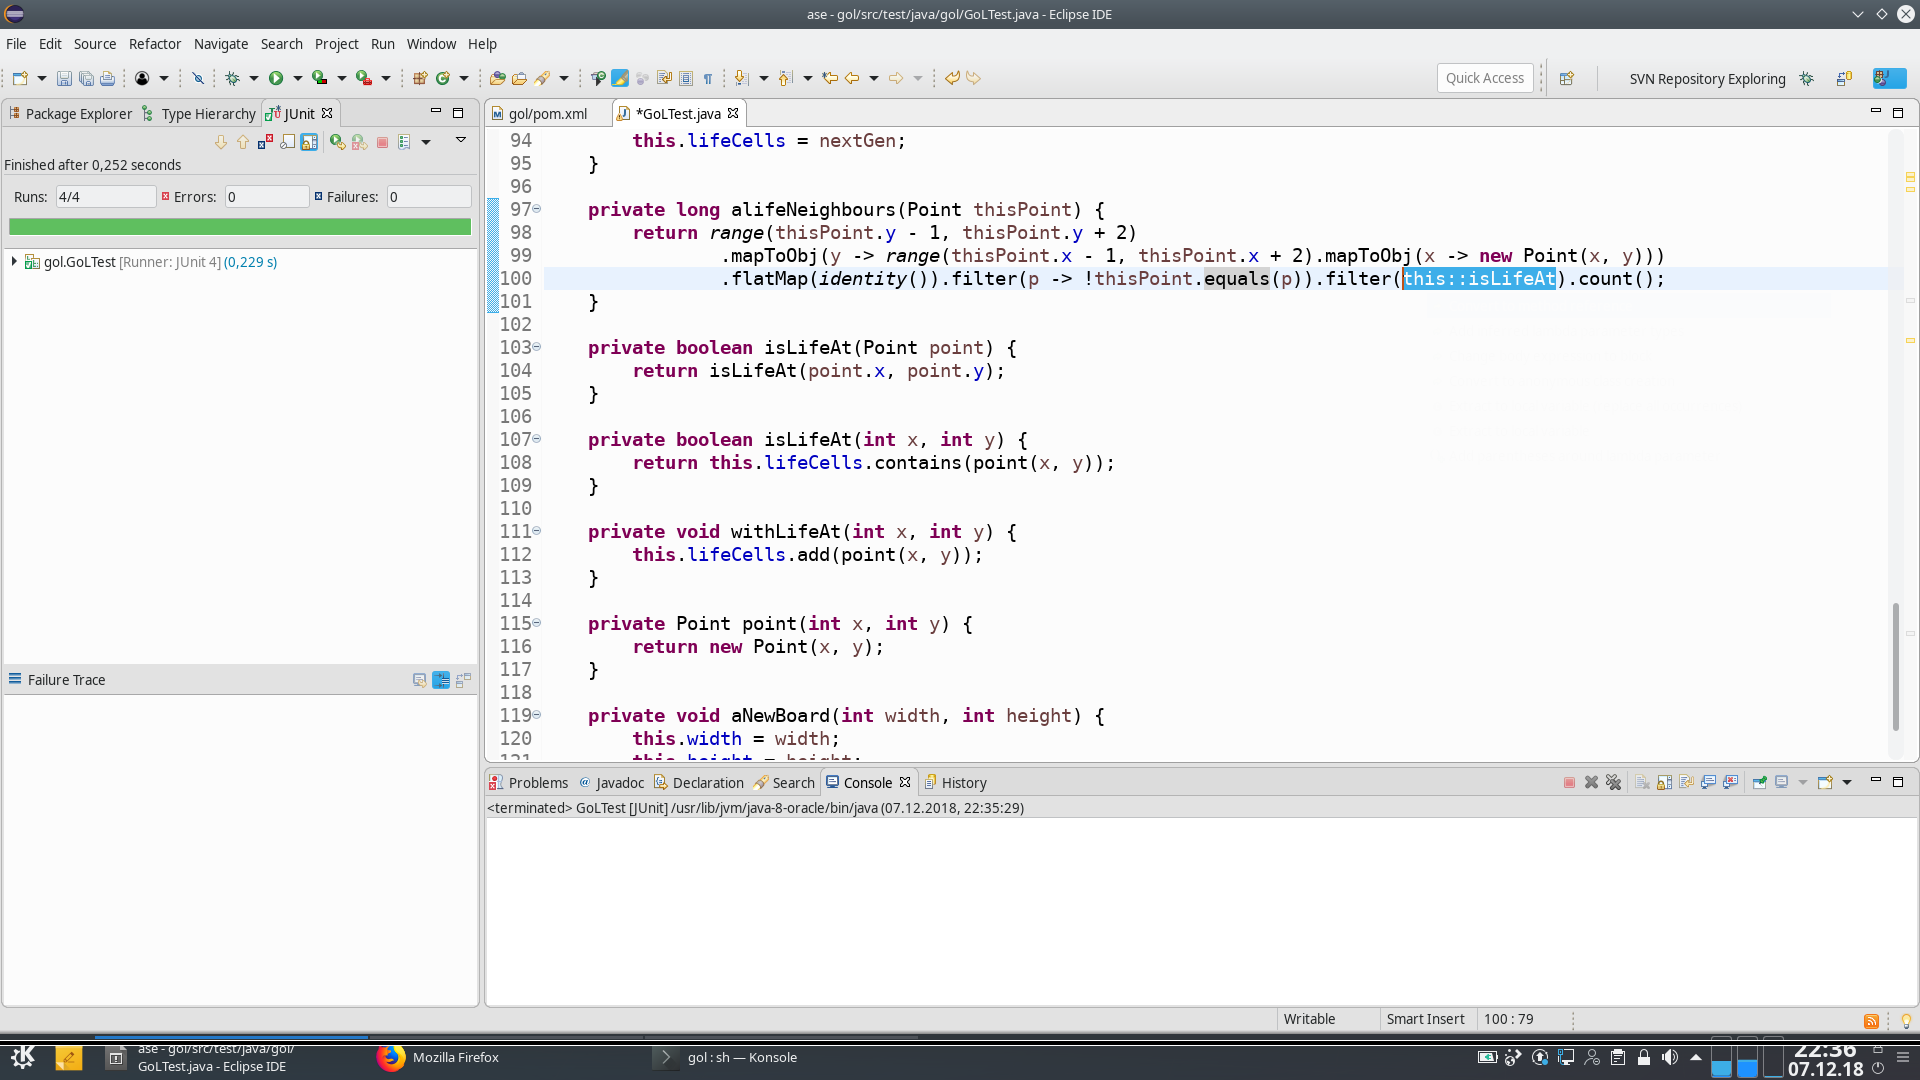
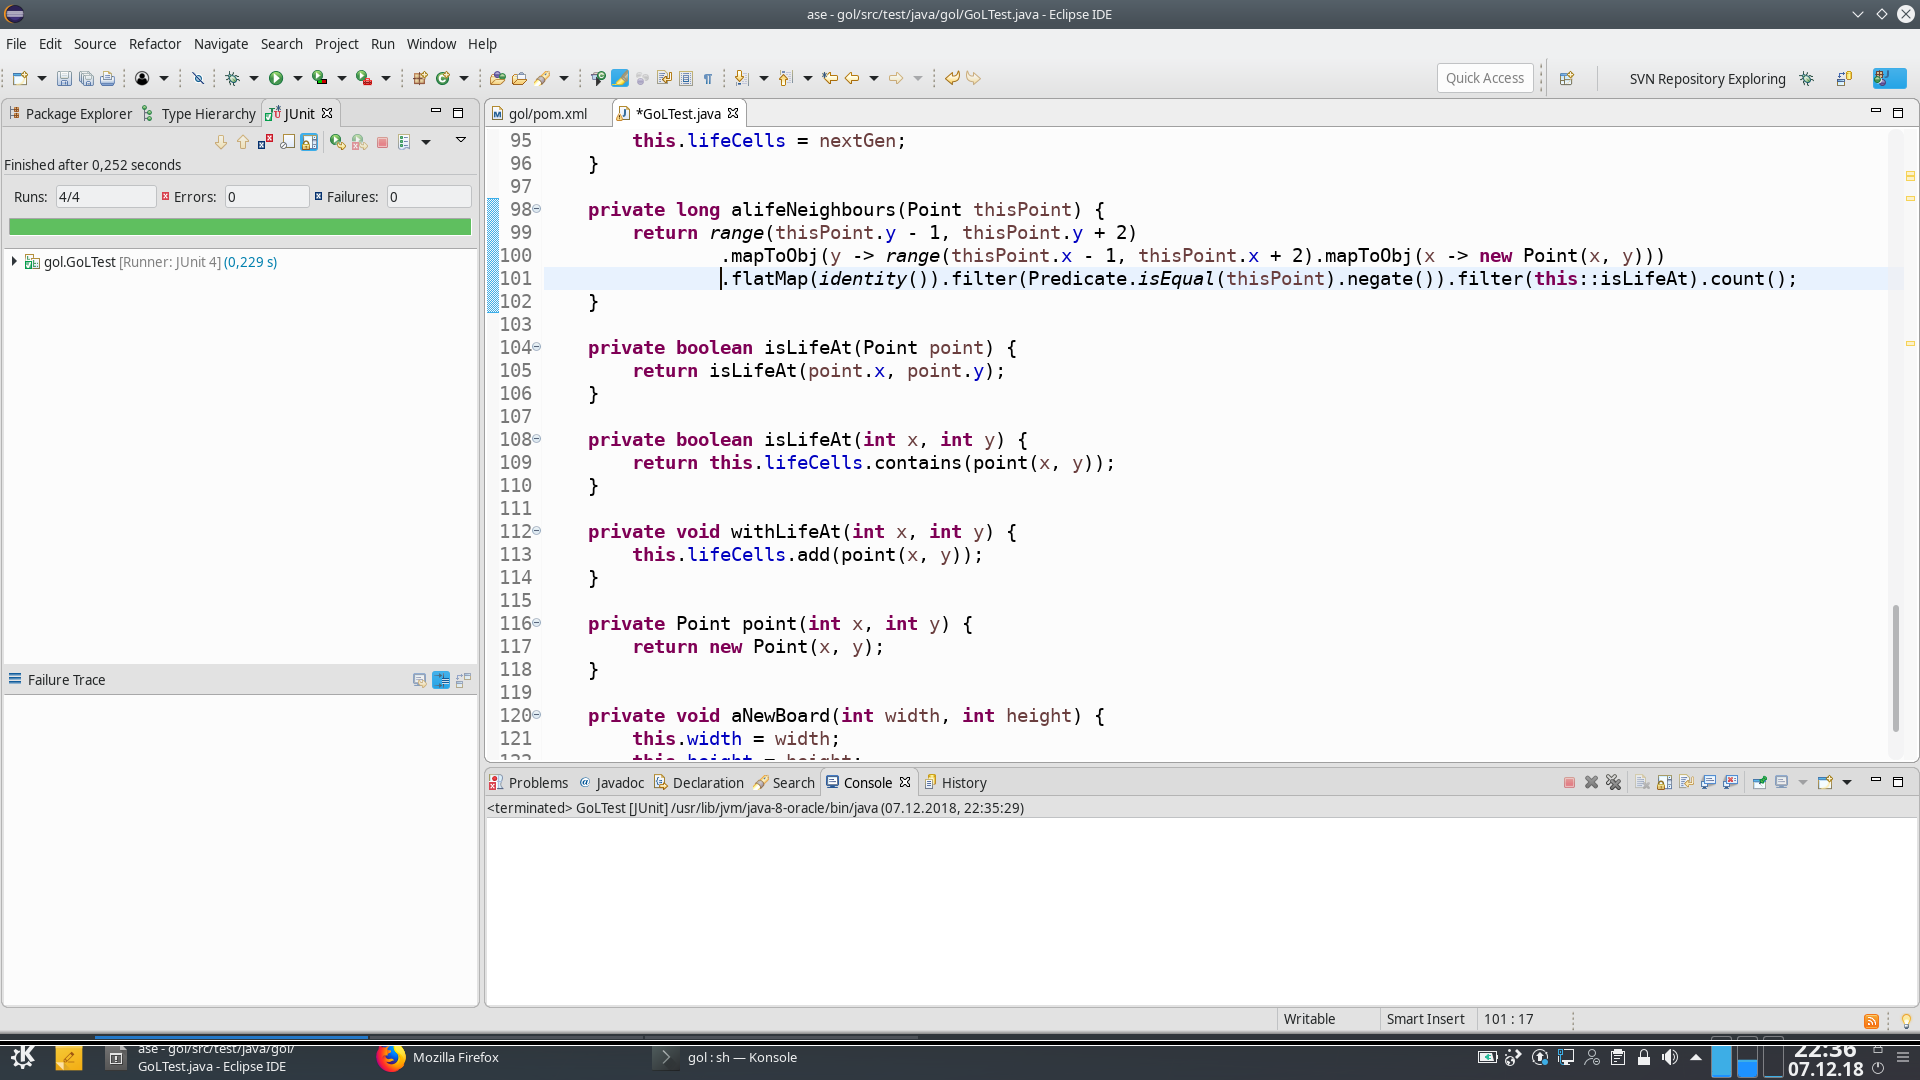
autocommit on change

Changed region(s): [[0.5312, 0.2444, 0.9375, 0.275]]

diff --git a/src/test/java/gol/GoLTest.java b/src/test/java/gol/GoLTest.java
@@ -9,6 +9,7 @@ import java.util.HashSet;
 import java.util.Set;
 import java.util.concurrent.atomic.AtomicInteger;
 import java.util.function.Function;
+import java.util.function.Predicate;
 import java.util.stream.IntStream;
 import java.util.stream.Stream;
 
@@ -97,7 +98,7 @@ public class GoLTest {
 	private long alifeNeighbours(Point thisPoint) {
 		return range(thisPoint.y - 1, thisPoint.y + 2)
 				.mapToObj(y -> range(thisPoint.x - 1, thisPoint.x + 2).mapToObj(x -> new Point(x, y)))
-				.flatMap(identity()).filter(p -> !thisPoint.equals(p)).filter(this::isLifeAt).count();
+				.flatMap(identity()).filter(Predicate.isEqual(thisPoint).negate()).filter(this::isLifeAt).count();
 	}
 
 	private boolean isLifeAt(Point point) {
